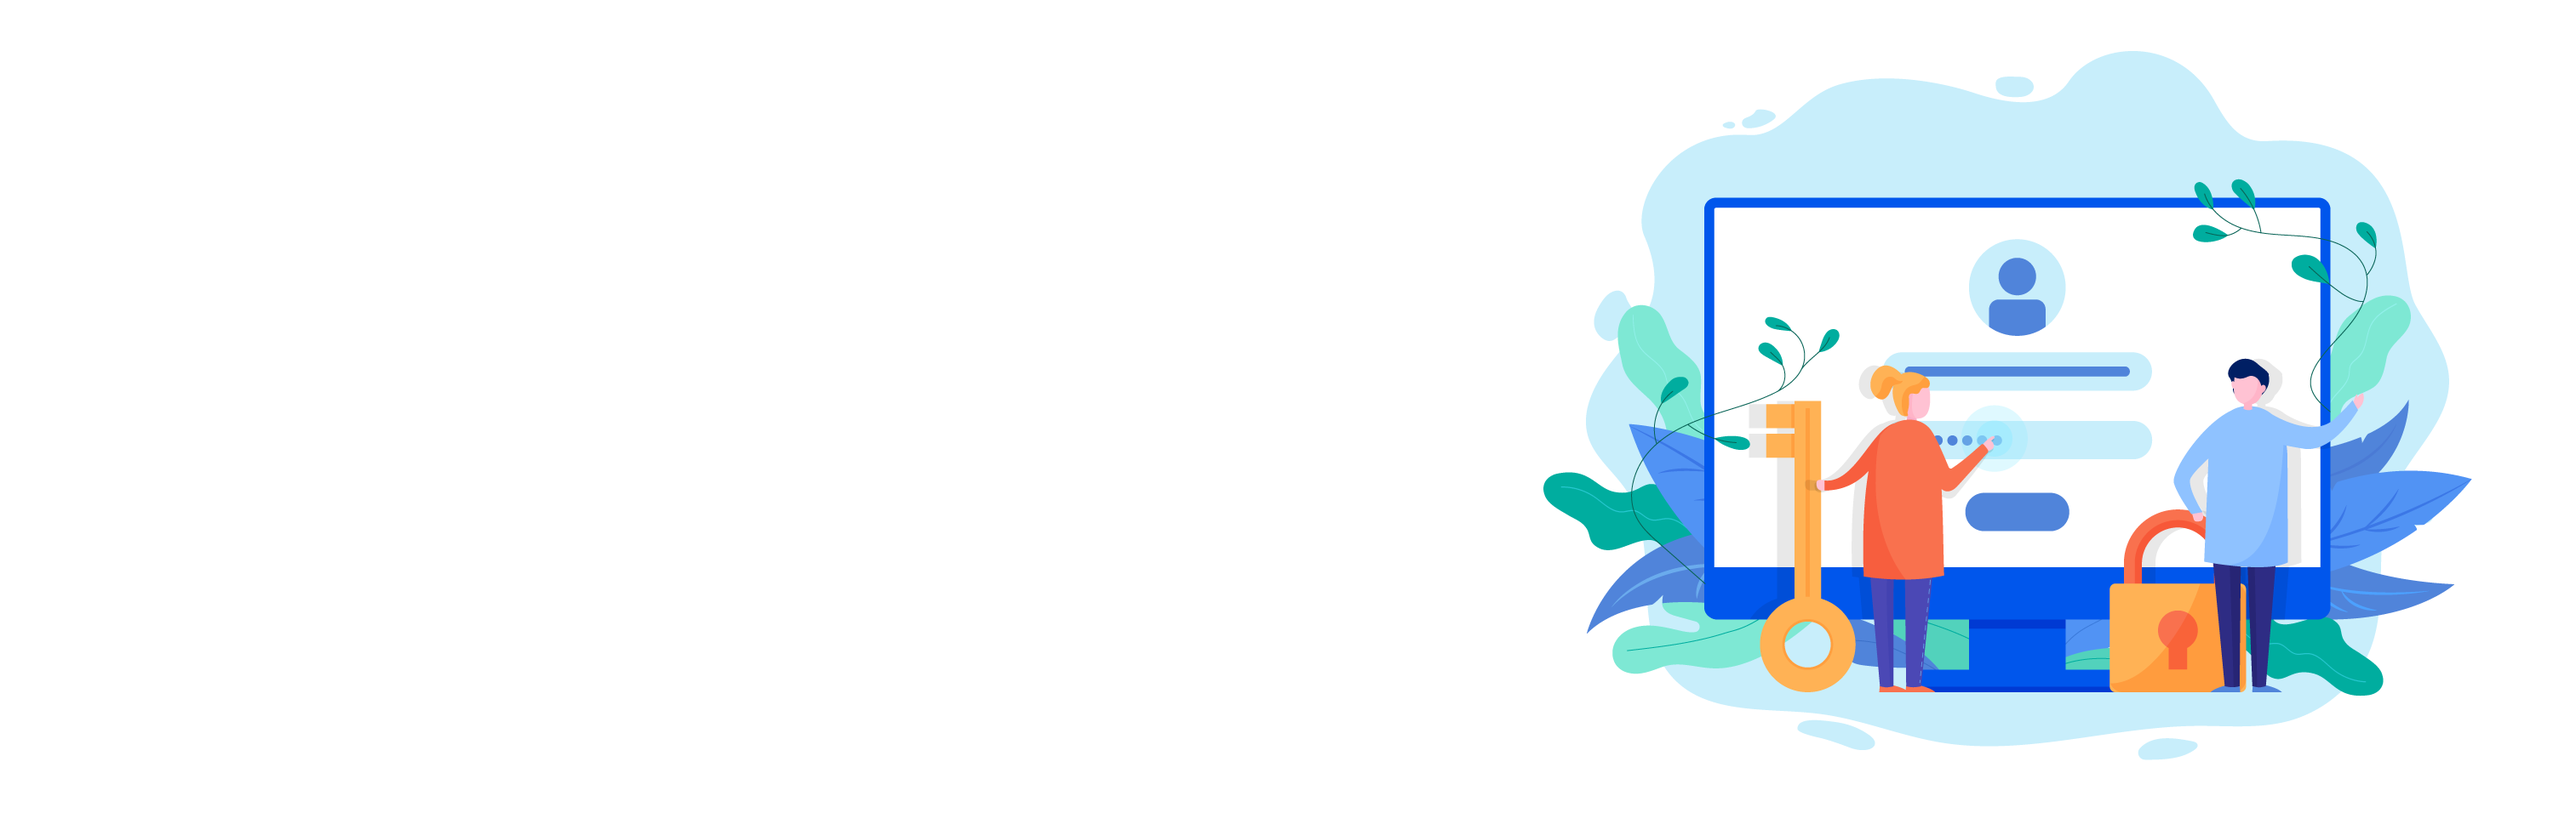
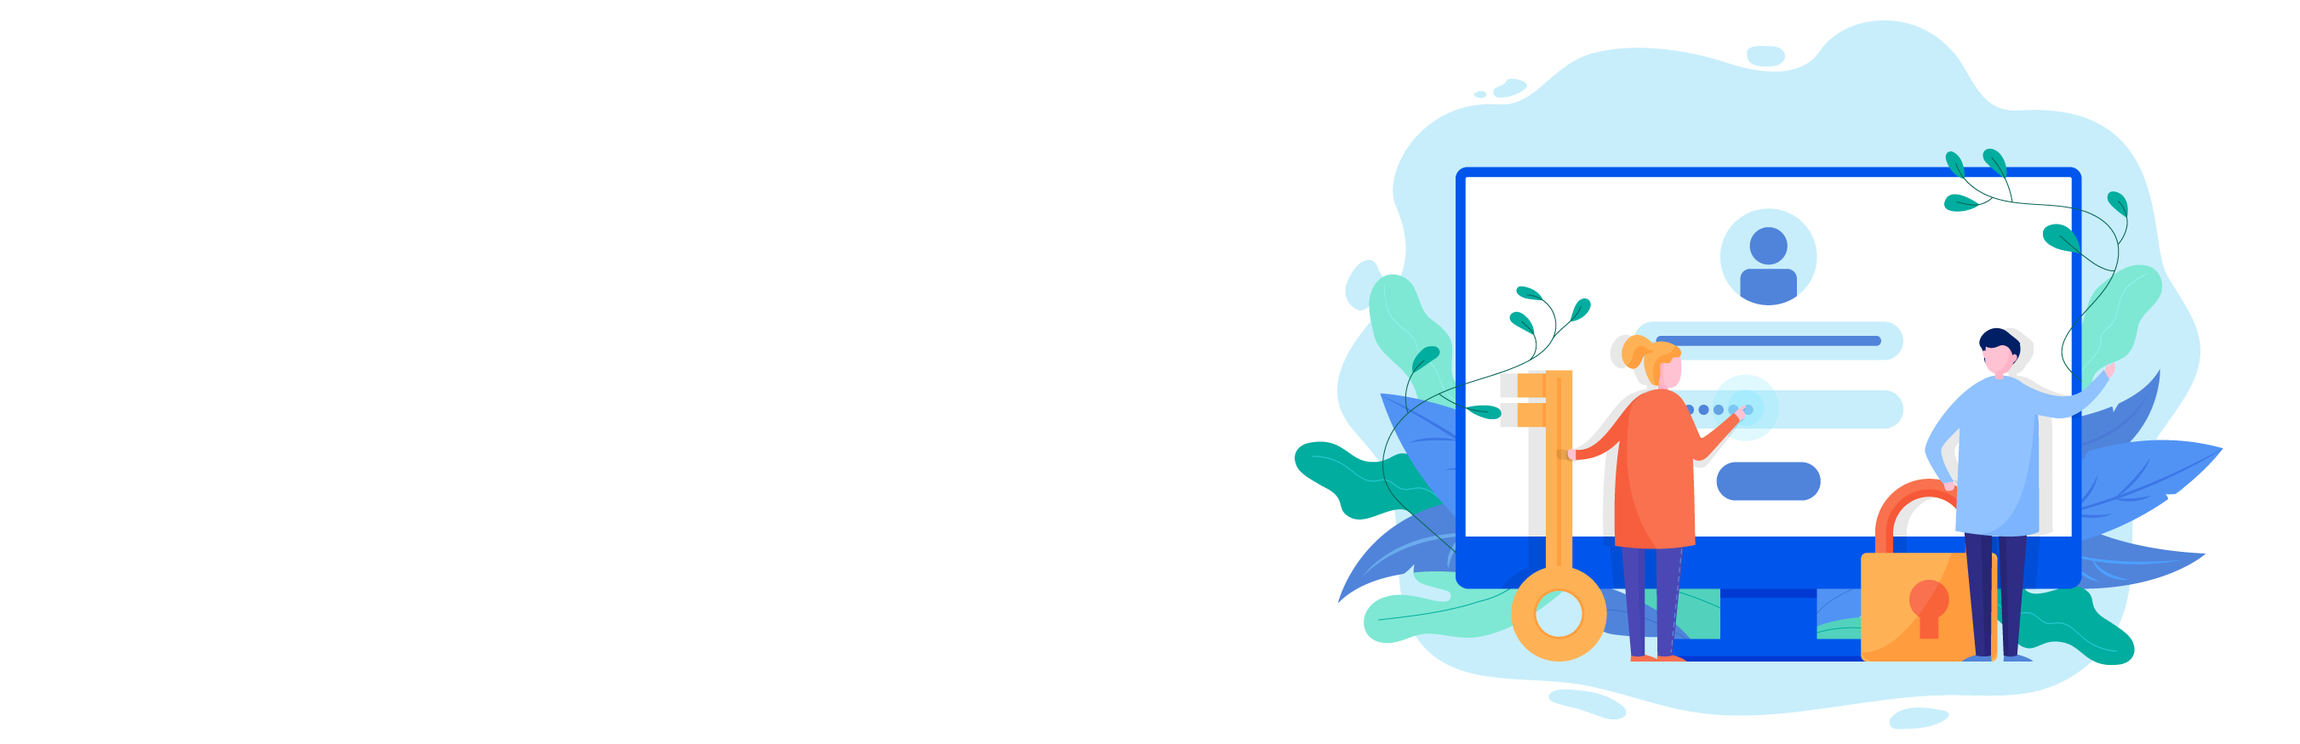
change

Changed region(s): [[0.5596, 0.0309, 0.9637, 0.9874]]

diff --git a/css/event1.css b/css/event1.css
@@ -10,7 +10,7 @@ html[ data-theme="dark"] {
     --shadow-clr: rgba(100,100,100,0.4);
 }
 
-@media only screen and (max-width: 1440px) {
+@media only screen and (max-width: 1496px) {
     body{
         overflow-x: hidden;
         overflow-y: scroll;
@@ -248,6 +248,7 @@ header {
 
 .container-fluid {
     z-index: 2;
+    margin-top: 50px;
 }
 
 @media screen and (max-width: 450px) {
@@ -696,6 +697,7 @@ header {
     }
     .color-overlay-3 {
         opacity: 0.8;
+
     }
 }
 
@@ -813,6 +815,6 @@ header {
 
 @media screen and (max-width: 900px) {
     .col-lg-6  {
-       margin-top: 4.5rem;
+       margin-top: 4.2rem;
     }
 }
